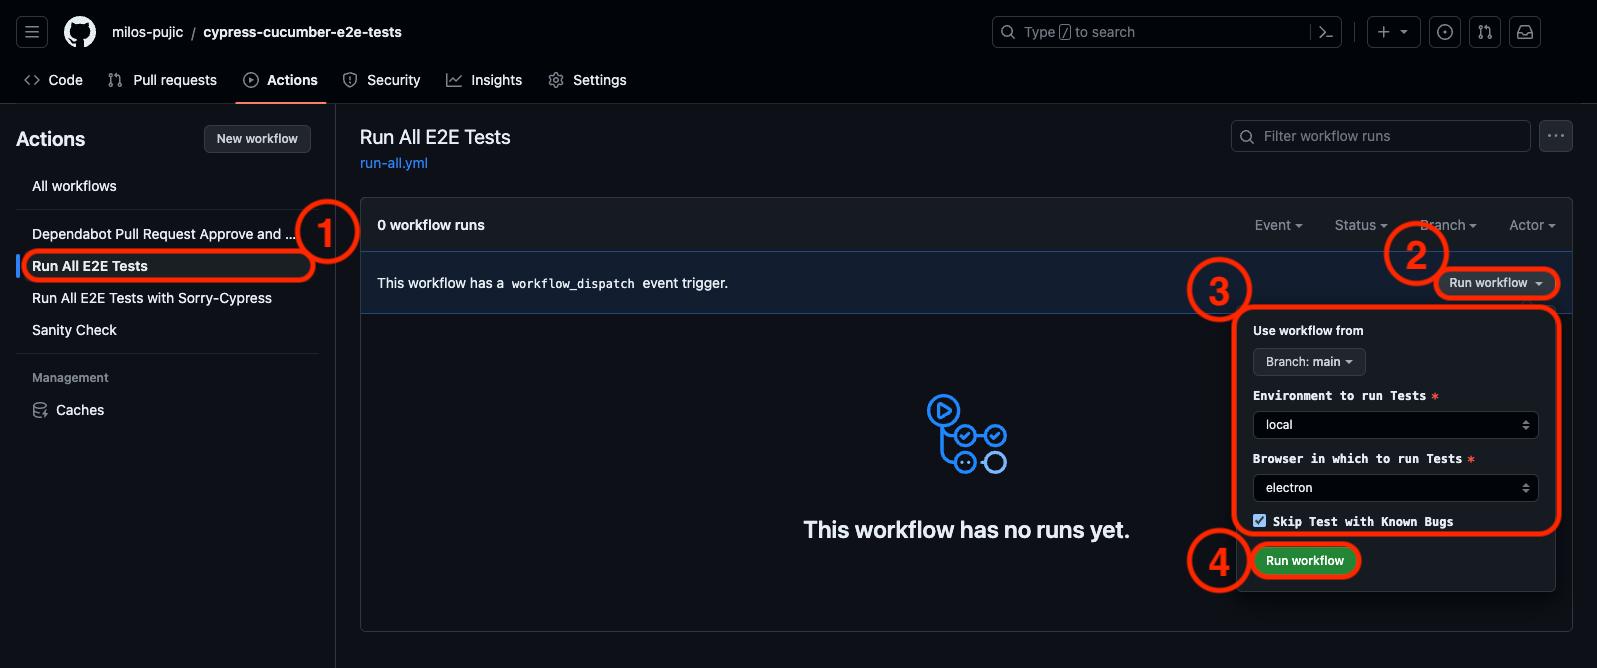
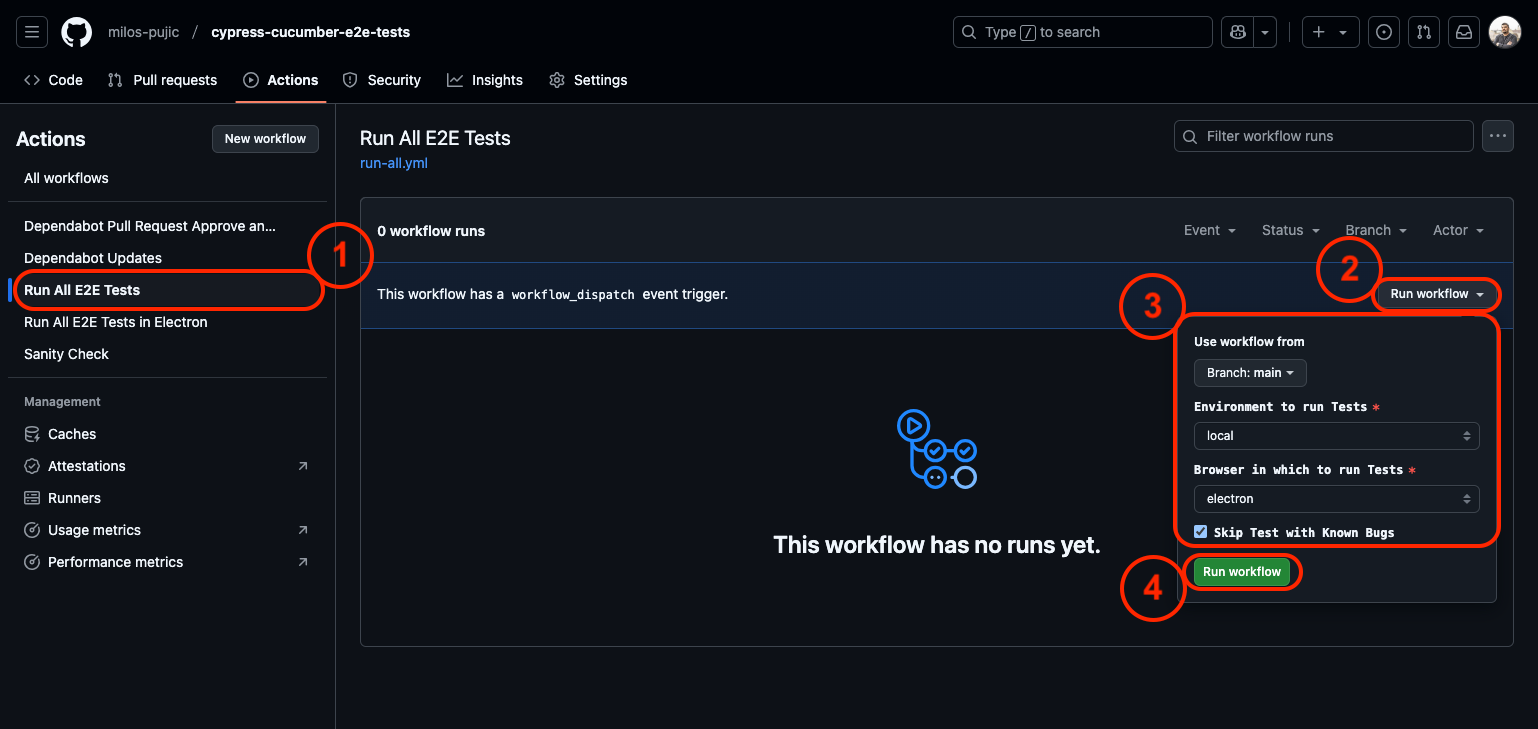
Adjusted pipeline documentation

diff --git a/README.md b/README.md
@@ -177,6 +177,18 @@ This workflow is only triggered Manually. Steps to trigger it:
 
 Also, on [Run All E2E Tests](https://github.com/milos-pujic/cypress-cucumber-e2e-tests/actions/workflows/run-all.yml) page, status of all on-going and previously executed 'Run All E2E Tests' Workflow runs can be found.
 
+### Run All E2E Tests Electron
+
+This GitHub Action Workflow Executes All Cypress Cucumber E2E Tests on `local` environnement using `electron` browser from defined branch (by default it is `main`).
+
+Environment `local` means that, Restful Booker Platform will be started inside GitHub Services and tests will run against it.
+
+GitHub Action Workflow configuration file of this workflow is [run-all-electron-local.yml](/.github/workflows/run-all-electron-local.yml).
+
+This workflow has only scheduled trigger. It is triggered At 09:00 on every Monday, using cron expression `0 9 * * 1`.
+
+Also, on [Run All E2E Tests Electron](https://github.com/milos-pujic/cypress-cucumber-e2e-tests/actions/workflows/run-all-electron-local.yml) page, status of all on-going and previously executed 'Run All E2E Tests' Workflow runs can be found.
+
 ### Sanity Check
 
 This GitHub Action Workflow Executes `@sanity` tagged scenarios of Cucumber E2E Tests on `local` environnement using `electron` browser from `main` or Pull Request source branch.
